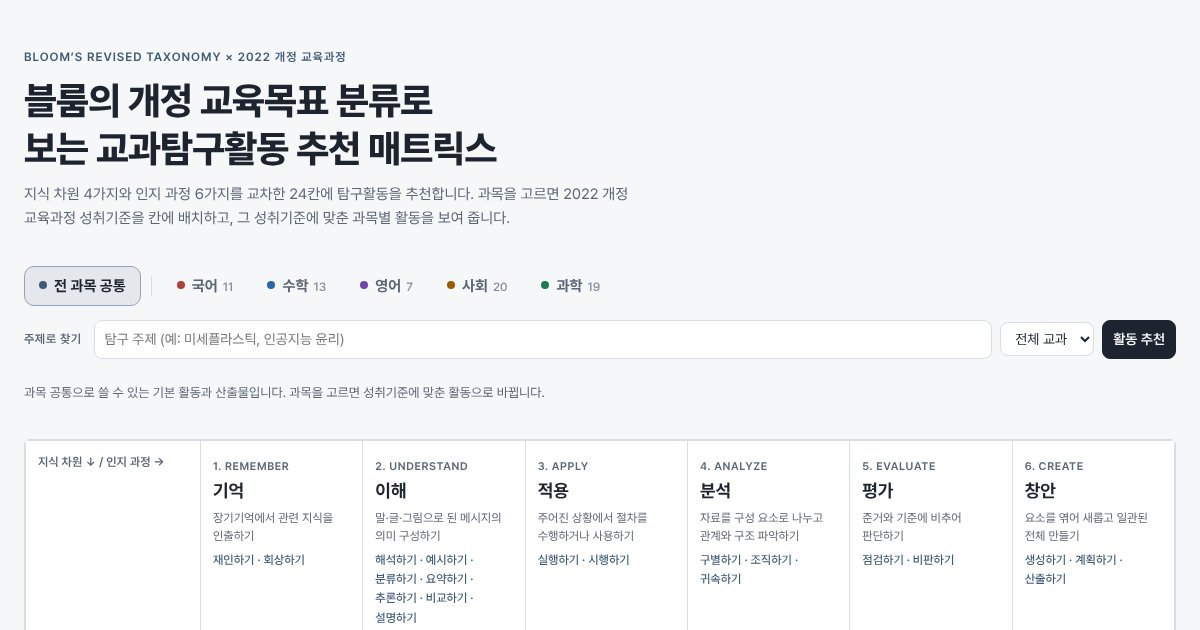
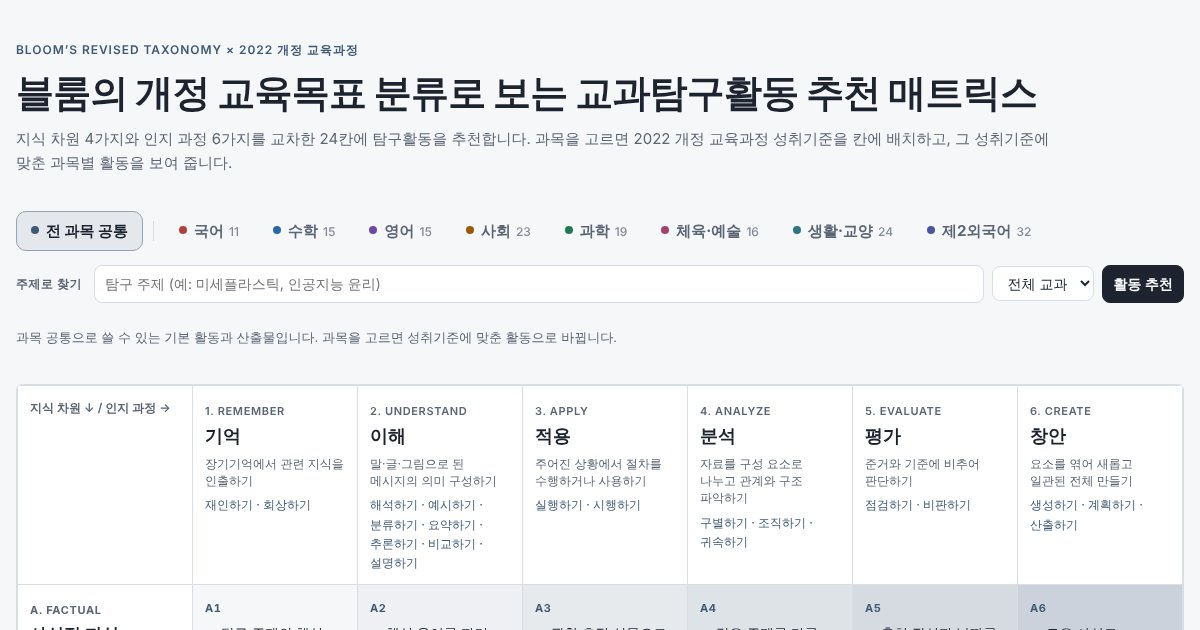
매트릭스 소개 카드: 155과목·성취기준 2173개로 고치고 썸네일 다시 캡처
Claude-Session: https://claude.ai/code/session_01LjZeYh4qTVU2d9qb6Q9jXs

diff --git a/index.html b/index.html
@@ -183,7 +183,7 @@
               <div class="tags"><span class="tag">교과 탐구</span><span class="tag plain">학생·선생님</span></div>
             </div>
             <h3>블룸 교과탐구활동 매트릭스</h3>
-            <p class="desc">블룸의 개정 교육목표 분류 24칸에 2022 개정 교육과정 70과목의 성취기준을 놓고, 과목이나 탐구 주제에 맞는 활동을 추천합니다.</p>
+            <p class="desc">블룸의 개정 교육목표 분류 24칸에 2022 개정 교육과정 155과목, 성취기준 2173개를 놓고, 과목이나 탐구 주제에 맞는 활동을 추천합니다.</p>
             <span class="go">매트릭스 열기 <svg viewBox="0 0 24 24" fill="none" stroke="currentColor" stroke-width="2.2" stroke-linecap="round" stroke-linejoin="round" aria-hidden="true"><path d="M5 12h14M13 6l6 6-6 6"/></svg></span>
           </div>
         </a>
